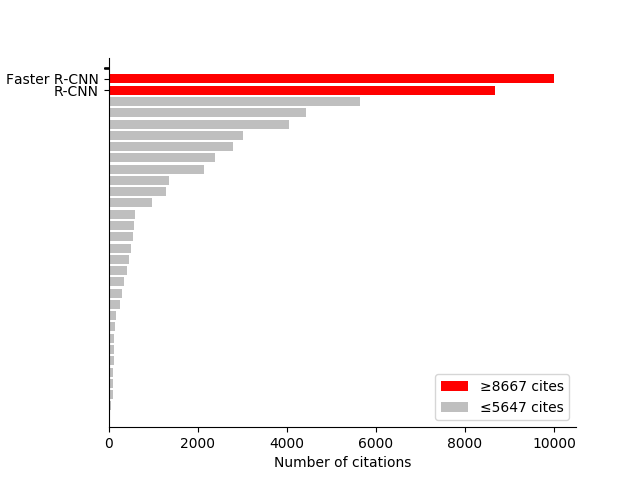
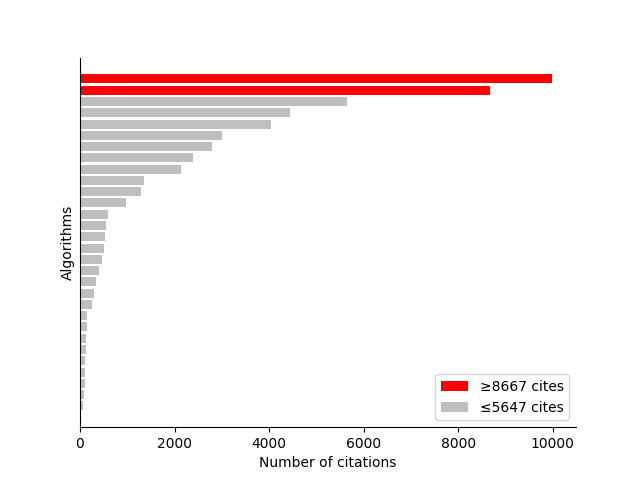
added depth estimation articles

diff --git a/main.py b/main.py
@@ -19,7 +19,7 @@ class GraphAnalysis:
                 lines = file.read().splitlines()
                 data = [lines[row_with_labels].split(', ')]
                 data = data + [[x.split(', ')[name_id], int(x.split(', ')[year_id]), int(x.split(', ')[cites_id])] for x in lines[ignore_first_two_lines:]]
-                if "object" in txt_file:                    
+                if "object_detect_reduced" in txt_file:                    
                     self.boundingbox_content = data
                 elif "semantic" in txt_file:
                     self.semantic_content = data
@@ -27,6 +27,8 @@ class GraphAnalysis:
                     self.instance_content = data
                 elif "real" in txt_file:
                     self.dataset_real_world = data
+                elif "depth_estimation_reduced" in txt_file:
+                	self.depth_estimation = data
                 else:
                     raise Exception('Are you sure the txt files have the correct name? Check their syntax on the main repository')
 
@@ -36,10 +38,13 @@ class GraphAnalysis:
         most_cited_semantic = self._create_chart_template(self.semantic_content, cites_upper_threshold, 'Semantic')
         most_cited_instance = self._create_chart_template(self.instance_content, cites_upper_threshold, 'Instance')
         most_cited_dataset_real_world = self._create_chart_template(self.dataset_real_world, cites_upper_threshold, 'Datasets_real')
+        most_cited_depth_estimation = self._create_chart_template(self.depth_estimation, cites_upper_threshold, 'Depth_estimation')
         print('Most cited bounding box algorithms:', most_cited_boundingbox)
         print('Most cited semantic algorithms:', most_cited_semantic)
         print('Most cited instance algorithms:', most_cited_instance)
-        print('Most cited datasets real world:', most_cited_dataset_real_world)
+        print('Most cited depth estimation:', most_cited_depth_estimation)
+        print('Most cited datasets real world:', most_cited_dataset_real_world)        
+
 
     def _create_chart_template(self, content_list, cites_upper_threshold, figure_name):
         # Order list by quantity of citations
@@ -66,7 +71,9 @@ class GraphAnalysis:
         # Puts x ticks only for red bars
         red_bar_x_ticks = [x[0] if counter > lower_percentile_index else " " for counter, x in enumerate(ordered_list)]
         plt.yticks(red_bar_x_ticks)
-        ax.tick_params(axis='y', labelsize=10)
+        ax.tick_params(axis='y', labelsize=10)        
+
+        ax.get_yaxis().set_ticks([])  # Hides y labels
 
         # Gets rid of the border around the chart
         ax.spines['top'].set_visible(False)
@@ -74,13 +81,14 @@ class GraphAnalysis:
 
         # Puts labeling on the image
         plt.xlabel('Number of citations')
+        plt.ylabel('Algorithms')
         # plt.title(content_list[0][2])
         plt.legend((red, gray),
                    ('≥{} cites'.format(most_cited_algorithms[0][2]), '≤{} cites'.format(last_gray_bar_cites)),
                    loc=4)
 
         # Leaves a little more space to the left so that the label name can appear entirely
-        plt.gcf().subplots_adjust(left=0.17)
+        #plt.gcf().subplots_adjust(left=0.17)
 
         plt.savefig(figure_name)
         plt.close()
@@ -90,7 +98,8 @@ class GraphAnalysis:
 if __name__ == "__main__":
     # User input
     # Files with articles with citations
-    input_files = ['articles_object_detect_reduced.txt', 'articles_semantic_segmentation.txt', 'articles_instance_segmentation.txt', 'articles_datasets_real_world.txt']
+    input_files = ['articles_object_detect_reduced.txt', 'articles_semantic_segmentation.txt', 'articles_instance_segmentation.txt'
+    , 'articles_datasets_real_world.txt', 'articles_depth_estimation_reduced.txt']
     cites_upper_threshold = 0.10  # In percentage, from 0.00 to 1.00, the top x% most cited articles
 
     # Begin processing of data and image plotting
